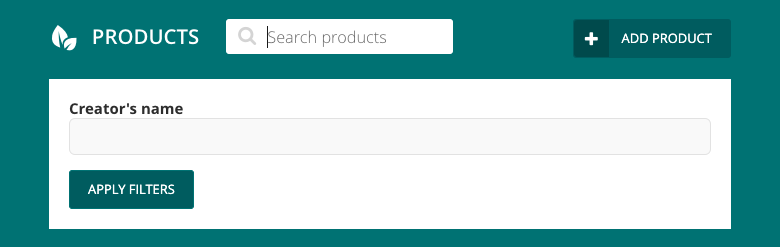
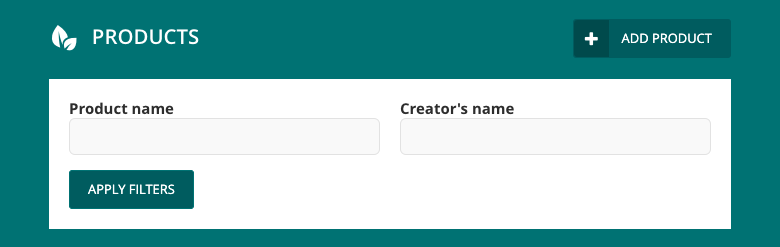
Basic usage example improvements

diff --git a/README.md b/README.md
@@ -26,13 +26,13 @@ and add `'admin-list-controls'` to `INSTALLED_APPS` in your settings.
 
 ### Basic usage
 
-The following example provides a text input that allows the user to perform textual queries against
-a related model's `name` field.. 
+The following example provides two text inputs that allow the user to perform different queries against
+the `name` fields on two different models. 
 
 ```python
 from wagtail.contrib.modeladmin.options import ModelAdmin, modeladmin_register
 from admin_list_controls.views import ListControlsIndexView
-from admin_list_controls.components import Button, Panel
+from admin_list_controls.components import Button, Panel, Columns
 from admin_list_controls.actions import SubmitForm
 from admin_list_controls.filters import TextFilter
 
@@ -41,10 +41,17 @@ class IndexView(ListControlsIndexView):
         def build_list_controls(self):
             return [
                 Panel()(
-                    TextFilter(
-                        name="text_filter",
-                        label="Creator's name",
-                        apply_to_queryset=lambda queryset, value: queryset.filter(created_by__name__icontains=value)
+                    Columns()(
+                        TextFilter(
+                            name="product_name",
+                            label="Product name",
+                            apply_to_queryset=lambda queryset, value: queryset.filter(name__icontains=value)
+                        ),
+                        TextFilter(
+                            name="creators_name",
+                            label="Creator's name",
+                            apply_to_queryset=lambda queryset, value: queryset.filter(created_by__name__icontains=value)
+                        ),
                     ),
                     Button(action=SubmitForm())(
                         "Apply filters",
